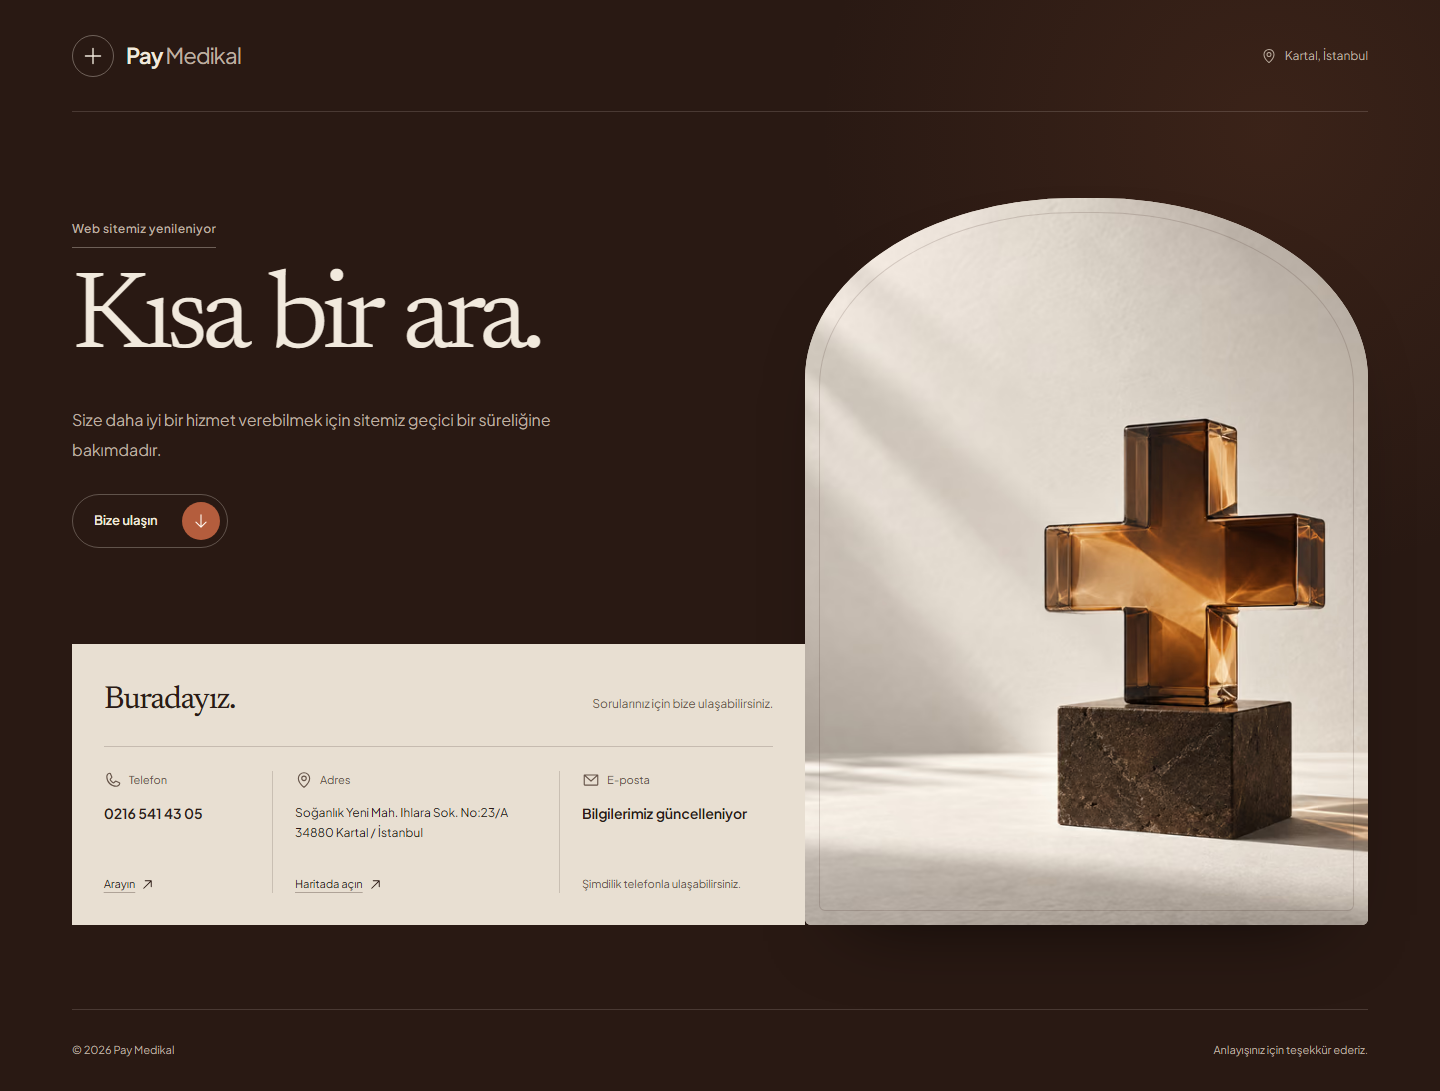
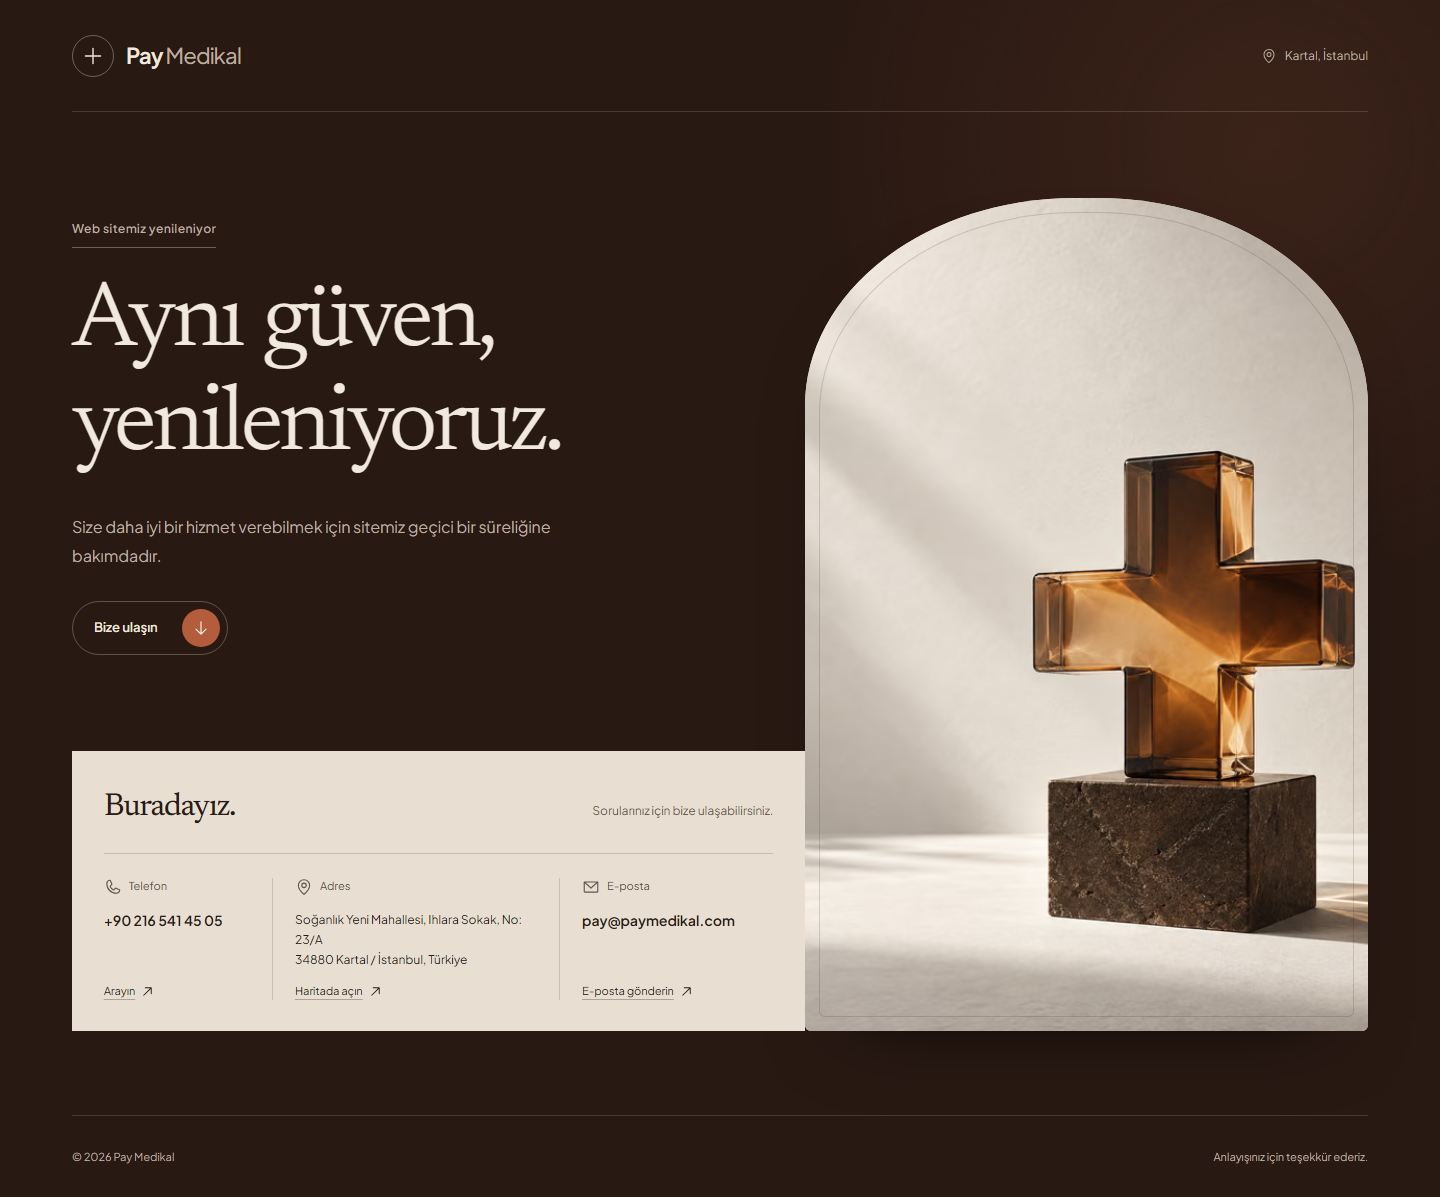
fix: correct kahve headline line-height for the longer two-line title
The italic Newsreader headline was tuned for the old one-line copy
("Kısa bir ara.") with line-height 0.91. Now that it wraps to two
lines on phones, that tight leading clipped descenders and crowded
the layout. Raise line-height and rebalance the font-size clamp at
each breakpoint so it reads comfortably on mobile and desktop.

diff --git a/src/brown.css b/src/brown.css
@@ -82,11 +82,11 @@
   margin: 0;
   color: var(--brown-ink);
   font-family: 'Newsreader Variable', Georgia, serif;
-  font-size: clamp(68px, 7.6vw, 118px);
+  font-size: clamp(52px, 6.4vw, 96px);
   font-weight: 360;
   font-style: italic;
-  line-height: 0.91;
-  letter-spacing: -0.062em;
+  line-height: 1.12;
+  letter-spacing: -0.045em;
 }
 .brown-description {
   max-width: 500px;
@@ -231,7 +231,7 @@
   }
   .brown-copy { padding: 0 0 42px; }
   .brown-eyebrow { margin-bottom: 22px; }
-  .brown-title { font-size: clamp(58px, 19vw, 82px); letter-spacing: -0.055em; }
+  .brown-title { font-size: clamp(40px, 12.5vw, 58px); line-height: 1.15; letter-spacing: -0.035em; }
   .brown-description { max-width: 370px; margin: 25px 0 25px; font-size: 15px; line-height: 1.8; }
   .brown-artwork { min-height: 0; aspect-ratio: 4 / 4.65; border-radius: 46% 46% 5px 5px / 22% 22% 5px 5px; }
   .brown-contact { margin: -1px 0 0; padding: 26px 22px; }
@@ -263,7 +263,7 @@
   .brown-site { padding: 0 17px; }
   .brown-location { max-width: 62px; line-height: 1.5; }
   .brown-location svg { display: none; }
-  .brown-title { font-size: 56px; }
+  .brown-title { font-size: 38px; }
 }
 
 @media (prefers-reduced-motion: reduce) {

diff --git a/CODEX.md b/CODEX.md
@@ -35,6 +35,8 @@ E-posta `pay@paymedikal.com`, telefon `+90 216 541 45 05` ve adres `Soğanlık Y
 
 Bu klasör başka bir projenin Git deposu içinde bulunuyor. Üst klasörün frontend/backend dosyaları ve mevcut kullanıcı değişiklikleri bu işe ait değil.
 
+21 Eylül 2026: Kullanıcı üçüncü konsepti (mühür) istemedi; ilgili branch ve dosyalar silindi, yalnızca yeşil ve kahve kaldı. Kullanıcı bu ikisini bir başkasına göstermek için tek link istedi. Bu proje reposuna (pay-medikal) hiçbir push/commit yapılmadan, ayrı bir repo olan `EfeAdak/EfeAdak.github.io` oluşturulup `npm run build` çıktısı oraya push edildi ve GitHub Pages açıldı: https://efeadak.github.io/ (yeşil) ve https://efeadak.github.io/kahve/ (kahve). Bu statik bir anlık görüntüdür; pay-medikal reposundaki sonraki değişiklikler otomatik yansımaz, güncellemek için build tekrar oraya push edilmeli.
+
 ## Doğrulama sonucu
 
 21 Eylül 2026: `npm run build` başarılı. Kahve konsepti eklendikten sonra `npm run test:browser -- --workers=2`: 16/16 başarılı (Chromium masaüstü ve mobil emülasyonu). Otomatik axe taramasında test edilen WCAG A/AA kuralları için ihlal bulunmadı. 320, 375, 768, 844, 1024 ve 1920px genişlikler; yatay taşma, klavye odağı, iletişim URL'leri, görsel yükleme, büyütülmüş metin, reduced-motion ve JavaScript kapalı kullanım kontrol edildi. Bu sonuç tüm tarayıcılarda manuel erişilebilirlik sertifikası değildir.
